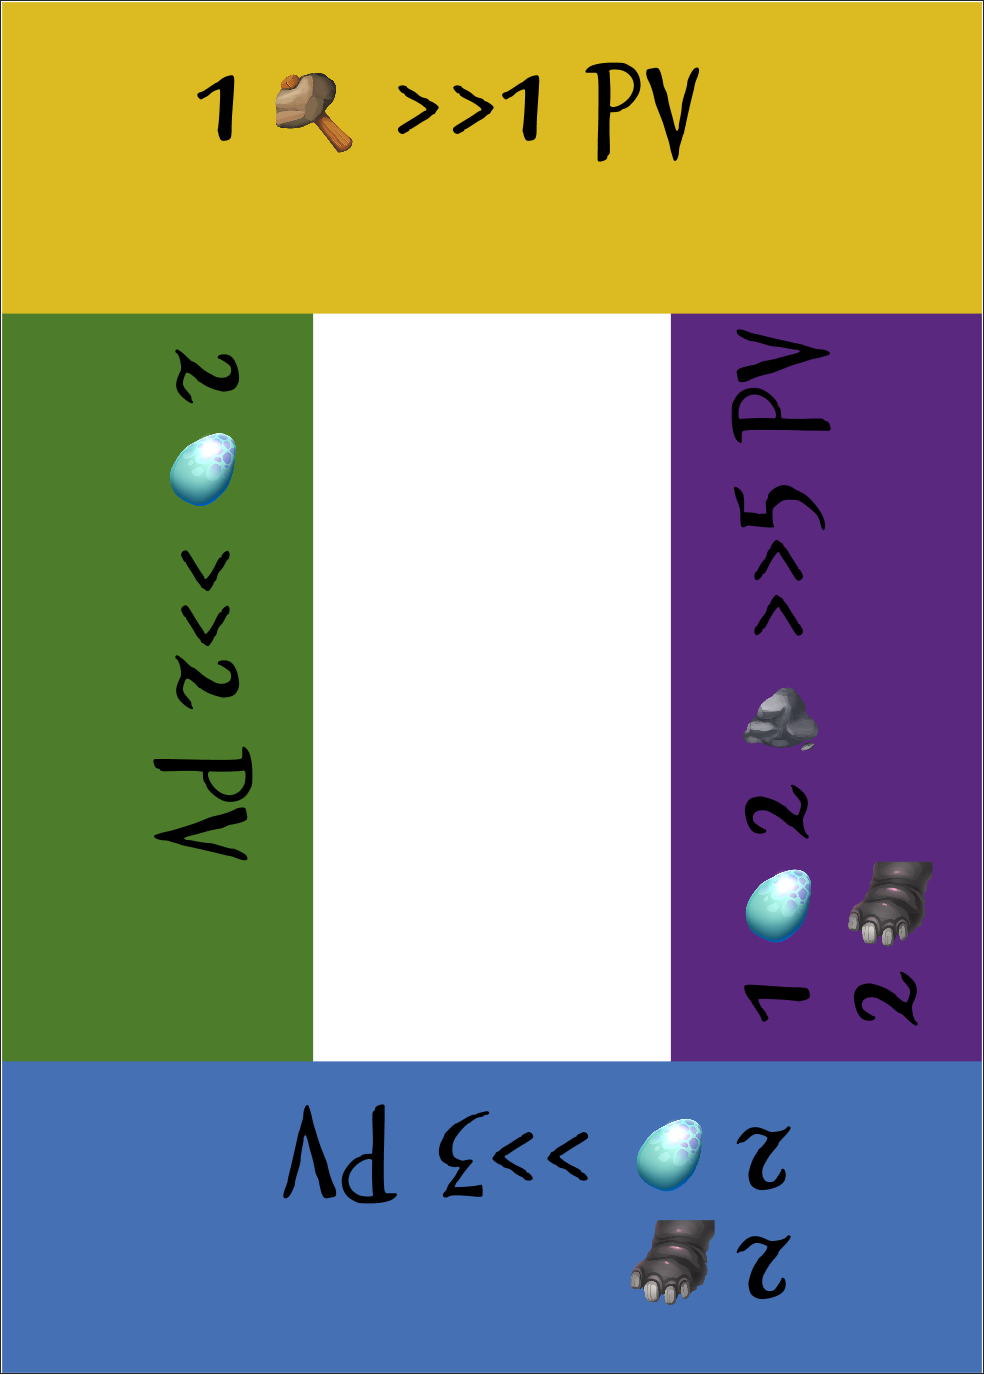
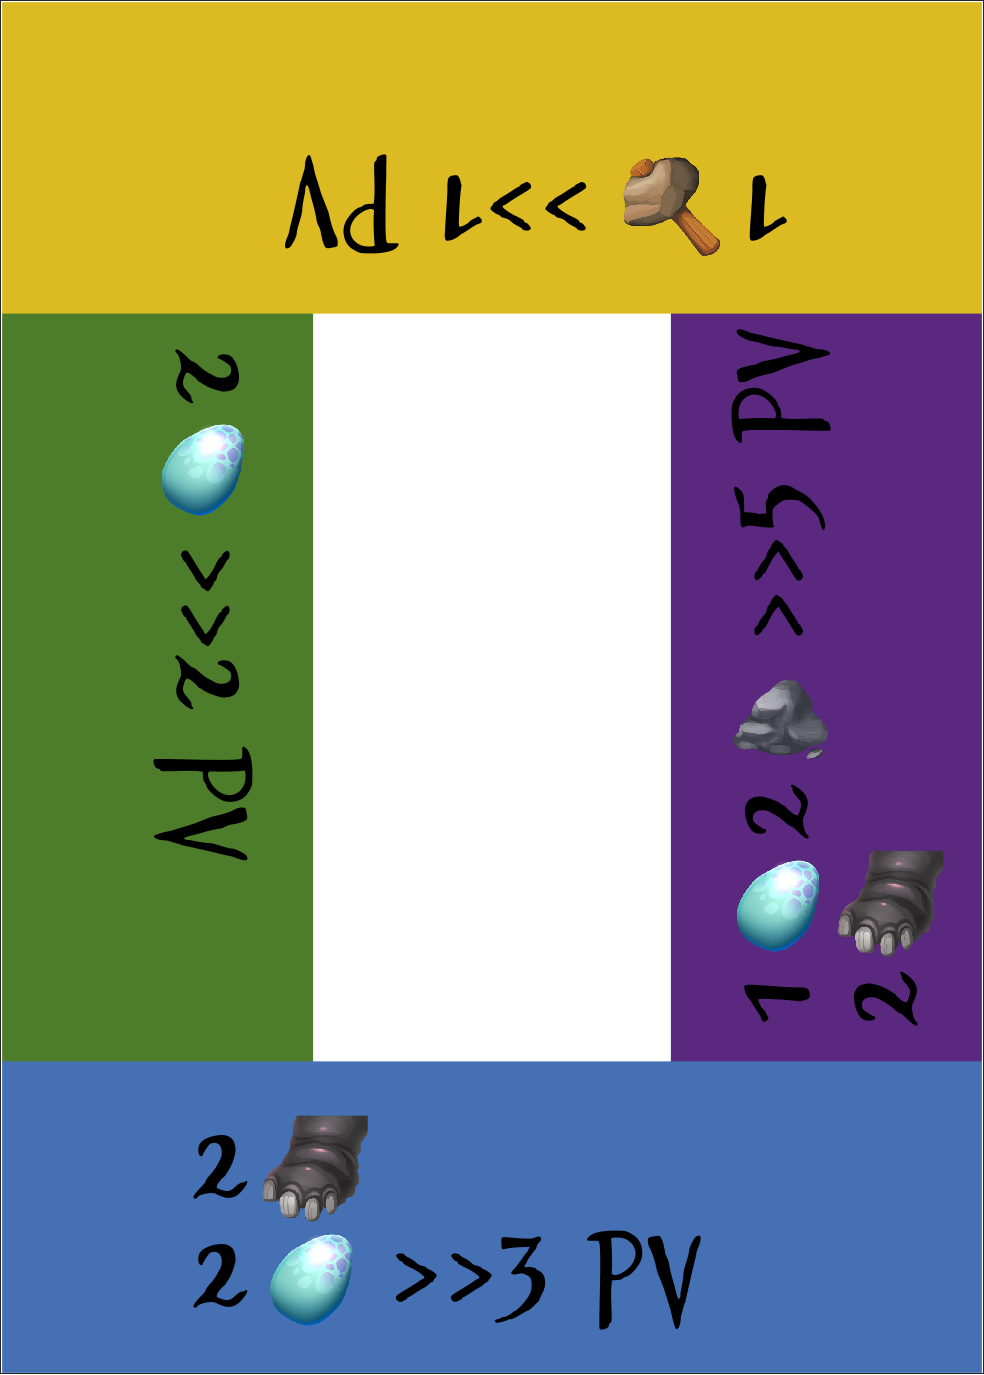
df2

diff --git a/DinoFarm/DF_generate_set_v0p1.m b/DinoFarm/DF_generate_set_v0p1.m
@@ -167,9 +167,9 @@ for ii = 1:Ncards
                        'PrehistoricIcon_86_t.png';
                        'HuntingIcons_42_t.png'};
                    
-              c = [20 7;
+              c = [63-20 13;
                    50 88-30;
-                   43 88-7;
+                   20 88-13;
                    13   30];
               
               %scores
@@ -181,15 +181,16 @@ for ii = 1:Ncards
            
                                 title = icons{res};
                                 [C,map,alpha]  = imread(title);
-                                zoom = 0.4;
+                                zoom = 0.5;
                                 D = 14;
                                 if season == 1 
-                                    cx = c(season,1) + (pos-1)*12;
-                                    cy = c(season,2) + (line - 1)*7;
-                                    lx = -6;
+                                    cx = c(season,1) - (pos-1)*12;
+                                    cy = c(season,2) - (line - 1)*7;
+                                    lx = 6;
                                     ly = 0;
-                                    sx = 15;
+                                    sx = -15;
                                     sy = 0;
+                                    rot = 180;
                                 elseif season == 2
                                     cx = c(season,1) + (line - 1)*7;
                                     cy = c(season,2) - (pos - 1)*12;
@@ -197,13 +198,15 @@ for ii = 1:Ncards
                                     ly = 6;
                                     sx = 0;
                                     sy = -15;
+                                    rot = 90;
                                 elseif season == 3
-                                    cx = c(season,1) - (pos-1)*12;
-                                    cy = c(season,2) - (line - 1)*7;
-                                    lx = 6;
+                                    cx = c(season,1) + (pos-1)*12;
+                                    cy = c(season,2) + (line - 1)*7;
+                                    lx = -6;
                                     ly = 0;
-                                    sx = -15;
+                                    sx = +15;
                                     sy = 0;
+                                    rot = 0;
                                 else
                                     cx = c(season,1) - (line - 1)*7;
                                     cy = c(season,2) + (pos - 1)*12;
@@ -211,11 +214,12 @@ for ii = 1:Ncards
                                     ly = -6;
                                     sx = 0;
                                     sy = 15;
+                                    rot = -90;
                                 end
                                 image('XData',[cx-D/2*zoom cx+D/2*zoom],'YData',[cy-D/2*zoom cy+D/2*zoom],'CData',C,'AlphaData',alpha);
 
                                 text(cx+lx,cy+ly,num2str((Dscore((ii-1)*2+line,res+(season-1)*6))),'FontSize',70, 'HorizontalAlignment','center',...
-                                 'VerticalAlignment','middle','Rotation',(season-1)*90,'Color','black','FontName','Brizel') 
+                                 'VerticalAlignment','middle','Rotation',rot,'Color','black','FontName','Brizel') 
                                 
                                  pos = pos+1;
                                  
@@ -223,7 +227,7 @@ for ii = 1:Ncards
                             end
                             if res == 5 && ~isnan(Dscore((ii-1)*2+line,6+(season-1)*6))
                              text(cx+sx,cy+sy,strcat('>> ',num2str((Dscore((ii-1)*2+line,6+(season-1)*6))),' PV'),'FontSize',70, 'HorizontalAlignment','center',...
-                                 'VerticalAlignment','middle','Rotation',(season-1)*90,'Color','black','FontName','Brizel')
+                                 'VerticalAlignment','middle','Rotation',rot,'Color','black','FontName','Brizel')
                             end
                       end
                       %rectangle('Position',[0,88-se*18,63,1],'FaceColor',[0 0 0],'LineStyle','none','Curvature',[0 0])
